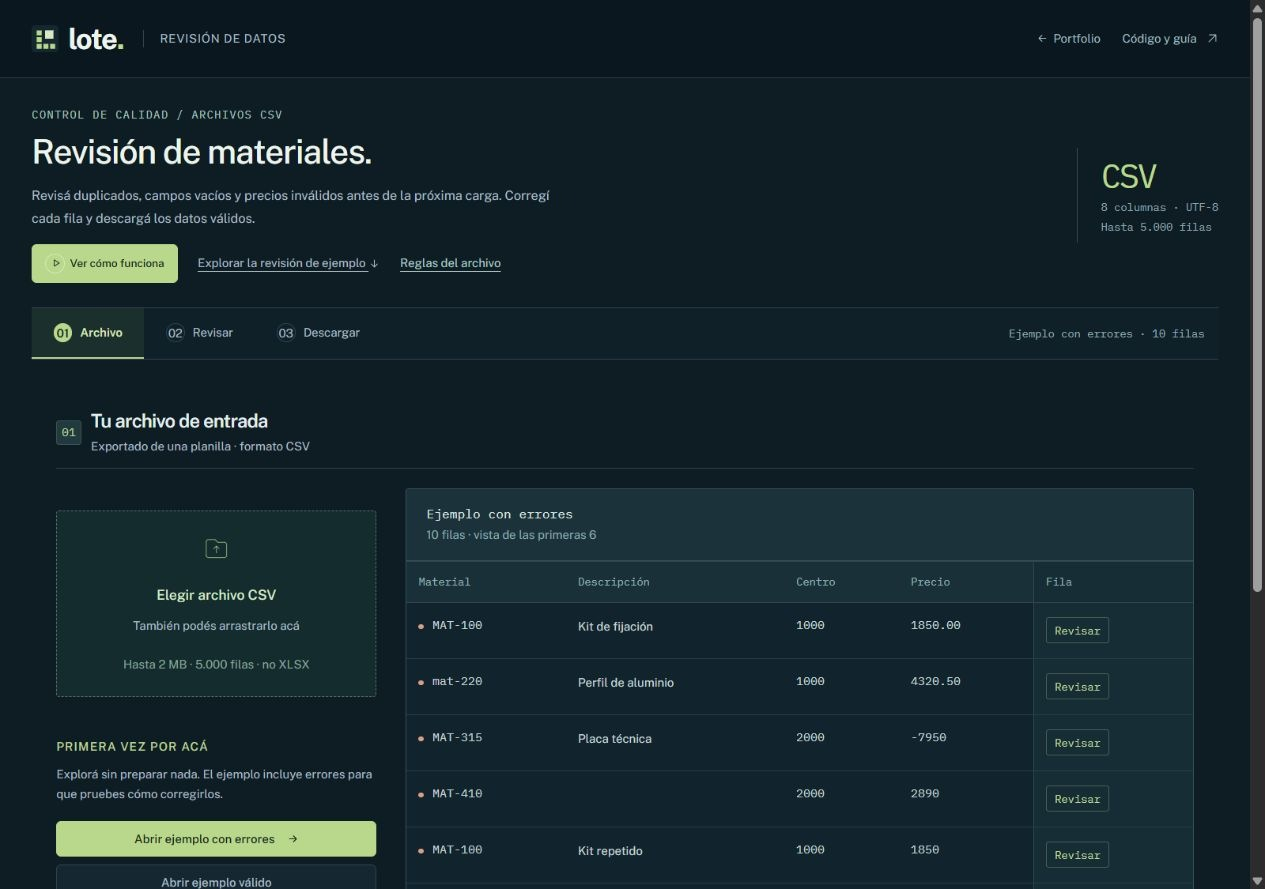
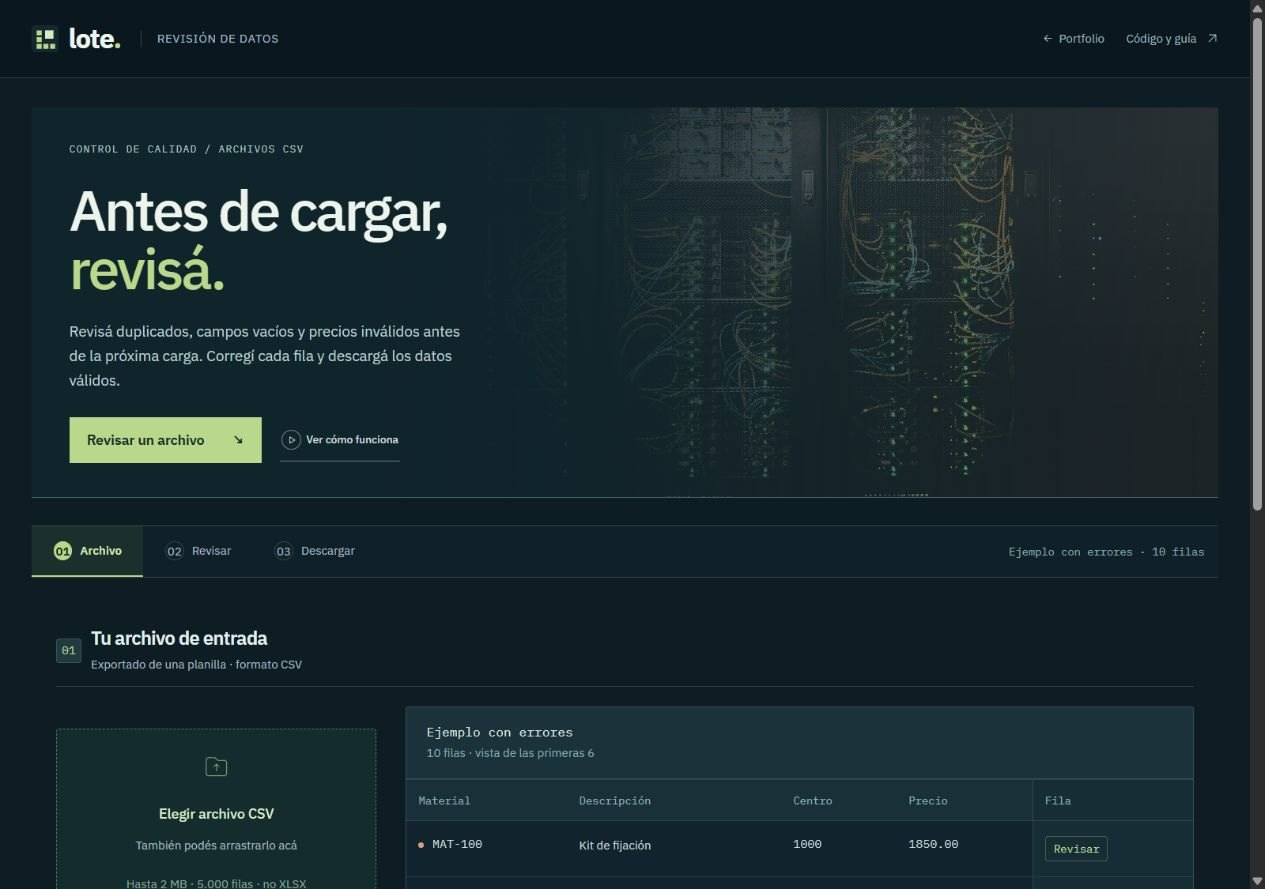
Give Lote a photographic cover and distinct typography

diff --git a/cover.css b/cover.css
@@ -1,0 +1,193 @@
+.intro {
+  position: relative;
+  isolation: isolate;
+  min-height: 370px;
+  padding: 35px 38px;
+  margin-bottom: 28px;
+  background: #10242b;
+  overflow: hidden;
+  border-bottom: 1px solid #45616a;
+}
+.network-photo {
+  position: absolute;
+  right: 0;
+  top: 0;
+  width: 65%;
+  height: 100%;
+  object-fit: cover;
+  object-position: center;
+  z-index: -2;
+  opacity: 0.75;
+}
+.intro::after {
+  content: '';
+  position: absolute;
+  inset: 0;
+  z-index: -1;
+  background: linear-gradient(90deg, #10242b 28%, #10242bf2 44%, #10242b22 100%);
+}
+.intro-copy {
+  max-width: 620px;
+}
+.intro .eyebrow {
+  color: #afc5c7;
+  font-size: 10px;
+  letter-spacing: 0.12em;
+  margin-bottom: 26px;
+}
+.intro h1 {
+  font: 500 clamp(38px, 4.5vw, 65px)/1.03 var(--ui);
+  letter-spacing: -0.045em;
+  margin: 0;
+}
+.intro h1 br {
+  display: block;
+}
+.intro h1 span {
+  color: #b9d88b;
+}
+.intro-explanation {
+  max-width: 46ch;
+  line-height: 1.65;
+  color: #bdd0d1;
+  font-size: 15px;
+  margin-top: 22px;
+}
+.intro-actions {
+  flex-wrap: wrap;
+  gap: 18px;
+  margin-top: 25px;
+}
+.review-enter {
+  display: inline-flex;
+  align-items: center;
+  gap: 28px;
+  background: #b9d88b;
+  color: #172b26;
+  padding: 11px 17px;
+  min-height: 44px;
+  font-size: 14px;
+  font-weight: 600;
+  text-decoration: none;
+  border: 1px solid #b9d88b;
+  border-radius: 0;
+}
+.review-enter:hover {
+  background: #d1e8b2;
+}
+.intro .tutorial-trigger {
+  min-height: 44px;
+  color: #d0dfdc;
+}
+.intro .button.primary.tutorial-trigger {
+  background: transparent;
+  color: #d0dfdc;
+  border: 0;
+  border-bottom: 1px solid #69847e;
+  padding: 0 2px;
+  border-radius: 0;
+  box-shadow: none;
+}
+.intro .button.primary.tutorial-trigger:hover {
+  color: #fff;
+  border-color: #c9e5ab;
+}
+.intro-example,
+.intro .rules-link {
+  display: none;
+}
+.format-card {
+  display: none;
+}
+.brand {
+  font-family: var(--ui);
+  font-size: 28px;
+  letter-spacing: -0.04em;
+}
+body:not([data-review-step='upload']) .intro {
+  min-height: 0;
+  padding: 24px 38px;
+}
+body:not([data-review-step='upload']) .intro h1 {
+  font-size: 34px;
+}
+body:not([data-review-step='upload']) .intro h1 br {
+  display: none;
+}
+body:not([data-review-step='upload']) .intro .eyebrow,
+body:not([data-review-step='upload']) .intro-explanation,
+body:not([data-review-step='upload']) .intro-actions {
+  display: none;
+}
+.flow-nav {
+  scroll-margin-top: 20px;
+}
+@media (max-width: 800px) {
+  .intro {
+    padding: 30px 26px;
+  }
+  .network-photo {
+    width: 100%;
+    opacity: 0.36;
+  }
+  .intro::after {
+    background: linear-gradient(90deg, #10242bf7, #10242b70);
+  }
+  .intro-copy {
+    max-width: 540px;
+  }
+  .intro h1 {
+    font-size: 53px;
+  }
+}
+@media (max-width: 480px) {
+  .intro {
+    padding: 28px 20px;
+    min-height: 0;
+    margin-bottom: 22px;
+  }
+  .intro .eyebrow {
+    font-size: 9px;
+    line-height: 1.7;
+    margin-bottom: 22px;
+  }
+  .intro h1 {
+    font-size: clamp(35px, 10vw, 48px);
+  }
+  .intro-explanation {
+    font-size: 14px;
+    margin-top: 18px;
+  }
+  .intro-actions {
+    flex-direction: column;
+    align-items: flex-start;
+    gap: 8px;
+    margin-top: 22px;
+  }
+  .intro .tutorial-trigger {
+    padding: 0;
+  }
+  body:not([data-review-step='upload']) .intro {
+    padding: 22px 20px;
+  }
+  body:not([data-review-step='upload']) .intro h1 {
+    font-size: 26px;
+  }
+}
+
+.file-rules {
+  display: inline-block;
+  padding: 8px 0;
+  margin-top: 3px;
+  min-height: 38px;
+  border: 0;
+  background: none;
+  color: #b9d88b;
+  font: 500 12px var(--ui);
+  text-align: left;
+  cursor: pointer;
+}
+.file-rules:hover {
+  color: #e3f2cc;
+  text-decoration: underline;
+}

diff --git a/index.html b/index.html
@@ -15,12 +15,13 @@
       content="Revisá un CSV de materiales, corregí las incidencias por fila y exportá los datos válidos. Una herramienta de demostración de Ariel López."
     />
     <link rel="icon" href="assets/brand-mark.svg" type="image/svg+xml" />
-    <link rel="preload" href="assets/public-sans.ttf" as="font" type="font/ttf" crossorigin />
-    <link rel="stylesheet" href="style.css?v=20261102-life-1" />
-    <link rel="stylesheet" href="tutorial.css?v=20261102-life-1" />
-    <script type="module" src="src/app.js?v=20261102-life-1"></script>
-    <link rel="stylesheet" href="video.css?v=20261102-life-1" />
-    <link rel="stylesheet" href="interface.css?v=20261102-life-1" />
+    <link rel="preload" href="assets/ibm-plex-sans.ttf" as="font" type="font/ttf" crossorigin />
+    <link rel="stylesheet" href="style.css?v=20261102-photo-1" />
+    <link rel="stylesheet" href="tutorial.css?v=20261102-photo-1" />
+    <script type="module" src="src/app.js?v=20261102-photo-1"></script>
+    <link rel="stylesheet" href="video.css?v=20261102-photo-1" />
+    <link rel="stylesheet" href="interface.css?v=20261102-photo-1" />
+    <link rel="stylesheet" href="cover.css?v=20261102-photo-1" />
   </head>
   <body>
     <a class="skip" href="#main">Saltar al contenido</a>
@@ -66,17 +67,27 @@
     </header>
     <main id="main">
       <div class="intro" data-brand-stage>
+        <img
+          class="network-photo"
+          src="assets/network-1600.webp"
+          srcset="assets/network-800.webp 800w, assets/network-1600.webp 1600w"
+          sizes="(max-width: 680px) 100vw, 65vw"
+          width="1600"
+          height="898"
+          alt=""
+          decoding="async"
+        />
         <div class="intro-copy">
           <p class="eyebrow"><span></span> CONTROL DE CALIDAD / ARCHIVOS CSV</p>
-          <h1>
-            Revisión<br />
-            de materiales.
-          </h1>
+          <h1>Antes de cargar,<br /><span>revisá.</span></h1>
           <p class="intro-explanation">
             Revisá duplicados, campos vacíos y precios inválidos antes de la próxima carga. Corregí
             cada fila y descargá los datos válidos.
           </p>
           <div class="intro-actions">
+            <a class="review-enter" href="#upload-title"
+              >Revisar un archivo <span aria-hidden="true">↘</span></a
+            >
             <button id="open-tutorial" class="button primary tutorial-trigger" type="button">
               <span class="play-symbol" aria-hidden="true"
                 ><svg
@@ -101,8 +112,8 @@
                   aria-hidden="true"
                   focusable="false"
                 >
-                  <use href="assets/icons.svg#arrow-down"></use></svg></span></a
-            ><button id="show-rules" class="rules-link" type="button">Reglas del archivo</button>
+                  <use href="assets/icons.svg#arrow-down"></use></svg></span
+            ></a>
           </div>
           <p class="format-note">
             Exportá tu planilla como <strong>CSV</strong>. Lote no abre XLSX ni carga datos en SAP.
@@ -119,6 +130,7 @@
             <div>
               <h2 id="upload-title">Tu archivo de entrada</h2>
               <p>Exportado de una planilla · formato CSV</p>
+              <button id="show-rules" class="file-rules" type="button">Reglas del archivo ↗</button>
             </div>
           </div>
           <div class="upload-grid">

diff --git a/interface.css b/interface.css
@@ -1,12 +1,12 @@
 @font-face {
-  font-family: PublicSans;
-  src: url('assets/public-sans.ttf') format('truetype');
+  font-family: PlexSans;
+  src: url('assets/ibm-plex-sans.ttf') format('truetype');
   font-weight: 100 900;
   font-display: swap;
 }
 :root {
-  --ui: PublicSans, Arial, sans-serif;
-  --display: PublicSans, Arial, sans-serif;
+  --ui: PlexSans, Arial, sans-serif;
+  --display: PlexSans, Arial, sans-serif;
   --ink: #e5eeeb;
   --muted: #9cb1ba;
   --line: #30454e;

diff --git a/README.md b/README.md
@@ -27,16 +27,16 @@ material,descripcion,tipo,unidad,grupo,centro,precio,moneda
 MAT-100,Kit de fijación,FERT,UN,010,1000,1850.00,ARS
 ```
 
-| Campo | Regla del perfil incluido |
-| --- | --- |
-| `material` | De 1 a 18 letras mayúsculas, números o guiones |
-| `descripcion` | Texto de hasta 40 caracteres |
-| `tipo` | FERT, HALB, ROH o HAWA |
-| `unidad` | UN, KG, LT o M |
-| `grupo` | Tres dígitos, conservando ceros iniciales |
-| `centro` | 1000 o 2000 |
-| `precio` | No negativo, punto decimal y hasta dos decimales, sin miles; cero advierte |
-| `moneda` | ARS o USD |
+| Campo         | Regla del perfil incluido                                                  |
+| ------------- | -------------------------------------------------------------------------- |
+| `material`    | De 1 a 18 letras mayúsculas, números o guiones                             |
+| `descripcion` | Texto de hasta 40 caracteres                                               |
+| `tipo`        | FERT, HALB, ROH o HAWA                                                     |
+| `unidad`      | UN, KG, LT o M                                                             |
+| `grupo`       | Tres dígitos, conservando ceros iniciales                                  |
+| `centro`      | 1000 o 2000                                                                |
+| `precio`      | No negativo, punto decimal y hasta dos decimales, sin miles; cero advierte |
+| `moneda`      | ARS o USD                                                                  |
 
 Todos los campos son obligatorios. La combinación `material + centro` debe ser única. La primera fila de datos es la 2; un campo multilínea sigue contando como una sola fila. Consultá **Reglas del archivo** desde la aplicación.
 
@@ -73,18 +73,18 @@ Códigos de salida: 0 sin errores bloqueantes (puede haber advertencias), 1 con 
 
 ## Código y pruebas
 
-| Ruta | Función |
-| --- | --- |
-| `rules.json` | Perfil compartido por el navegador y Python |
-| `src/validator.js`, `python/lote.py` | Lectura, reglas y exportación |
-| `src/app.js` | Revisión, correcciones e historial |
-| `src/file-preview.js` | Tabla de muestra con valores tratados como texto |
-| `src/review-flow.js` | Navegación entre archivo, revisión y descarga |
-| `src/tutorial.js` | Guía independiente de la revisión |
-| `style.css`, `interface.css` | Base y presentación de la aplicación |
-| `tests/` | CSV, reglas y comparación JavaScript/Python |
+| Ruta                                 | Función                                          |
+| ------------------------------------ | ------------------------------------------------ |
+| `rules.json`                         | Perfil compartido por el navegador y Python      |
+| `src/validator.js`, `python/lote.py` | Lectura, reglas y exportación                    |
+| `src/app.js`                         | Revisión, correcciones e historial               |
+| `src/file-preview.js`                | Tabla de muestra con valores tratados como texto |
+| `src/review-flow.js`                 | Navegación entre archivo, revisión y descarga    |
+| `src/tutorial.js`                    | Guía independiente de la revisión                |
+| `style.css`, `interface.css`         | Base y presentación de la aplicación             |
+| `tests/`                             | CSV, reglas y comparación JavaScript/Python      |
 
-La interfaz oscura usa Public Sans y cifras en IBM Plex Mono, servidas localmente; su licencia SIL OFL está en `assets/`.
+La interfaz oscura usa IBM Plex Sans y cifras en IBM Plex Mono, servidas localmente; su licencia SIL OFL está en `assets/`.
 
 Con Node 22+ y Python 3.10+, sin instalar paquetes:
 
@@ -95,3 +95,5 @@ npm test
 `LOTE_PYTHON` permite indicar otro ejecutable de Python al runner. Las pruebas incluyen claves duplicadas, normalización, límites de precio, exportación y paridad entre implementaciones. La exportación protege posibles prefijos de fórmulas; las pruebas verifican el archivo, no todas las aplicaciones de planillas. La CSP de la página es parcial.
 
 GitHub Pages publica `main` después de la revisión y las pruebas. El workflow vigente usa Node 20; su migración requiere un permiso de GitHub que no tiene la credencial de esta sesión.
+
+La portada usa una fotografía de referencia, con sus créditos en [assets/PHOTOS.md](assets/PHOTOS.md). Las imágenes y fuentes se sirven desde el proyecto. Los formularios y las tablas mantienen fondos sin fotografías.

diff --git a/assets/PHOTOS.md b/assets/PHOTOS.md
@@ -1,0 +1,3 @@
+# Fotografía
+
+`network-800.webp` y `network-1600.webp`: Taylor Vick, Unsplash, publicada el 22 de mayo de 2019. [Fotografía original](https://unsplash.com/photos/cable-network-M5tzZtFCOfs), [archivo de origen](https://images.unsplash.com/photo-1558494949-ef010cbdcc31), [licencia Unsplash](https://unsplash.com/license). Adaptaciones: tamaño y compresión WebP. Fotografía de referencia; no representa infraestructura propia ni de clientes.
